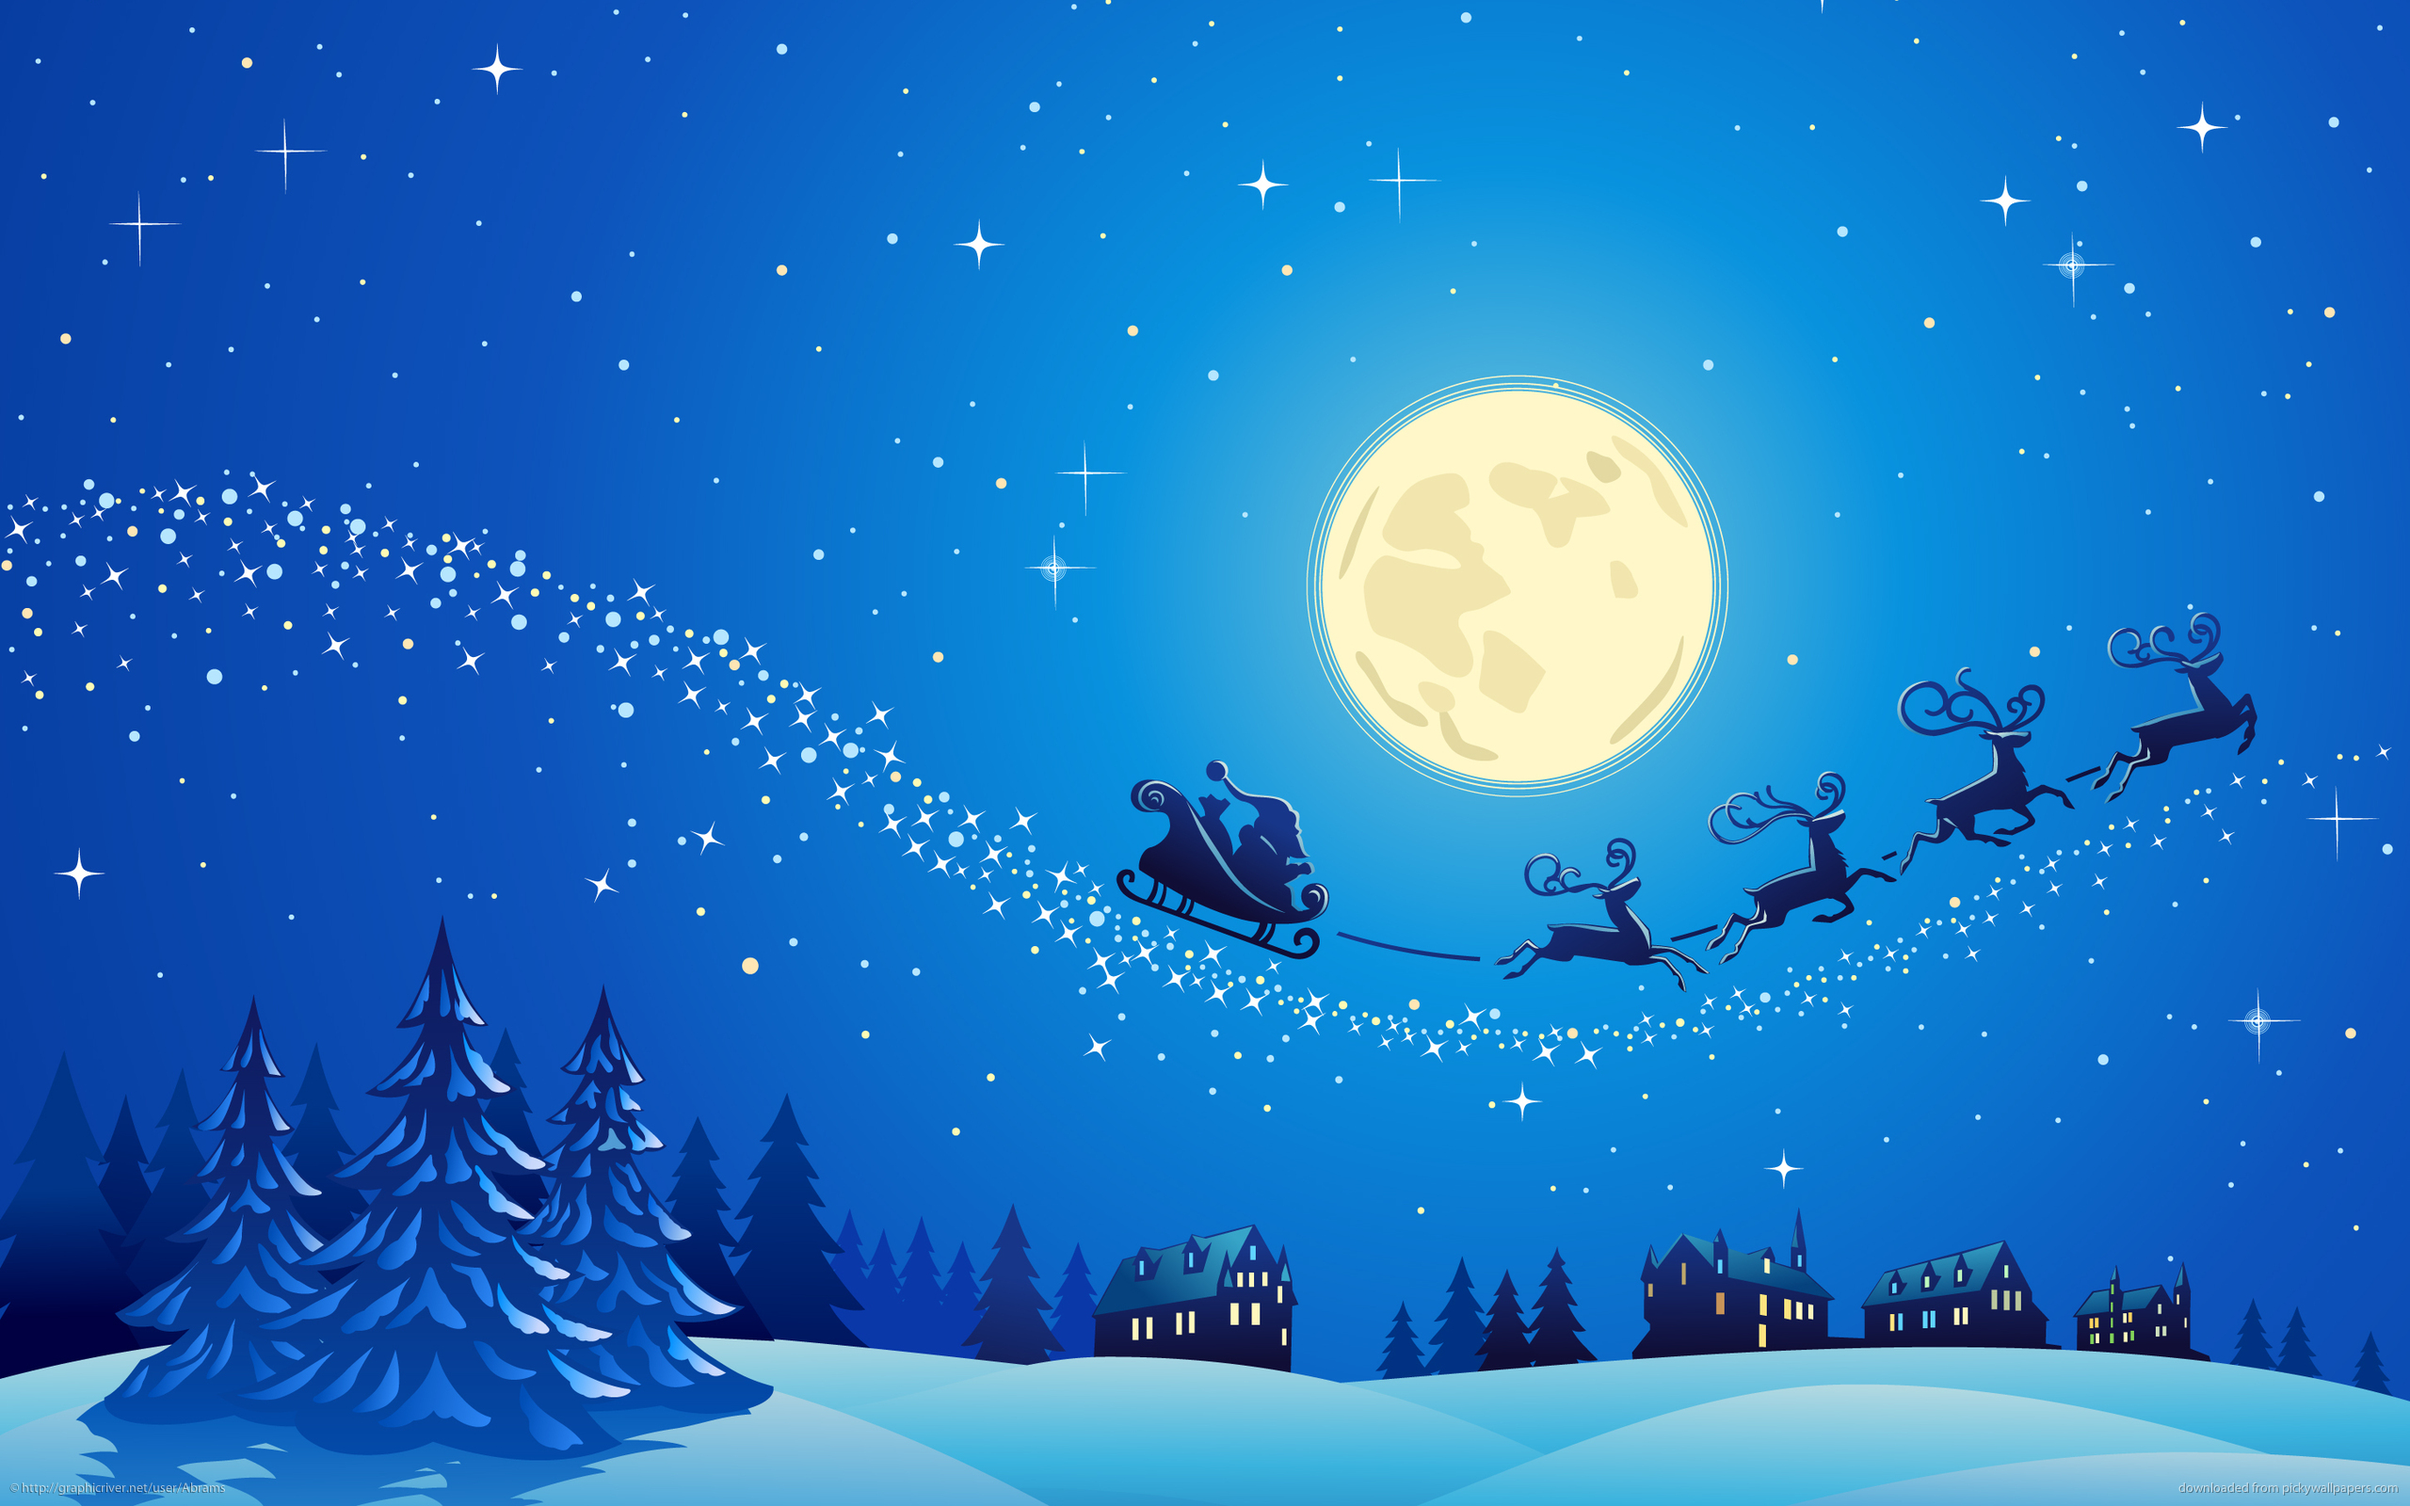
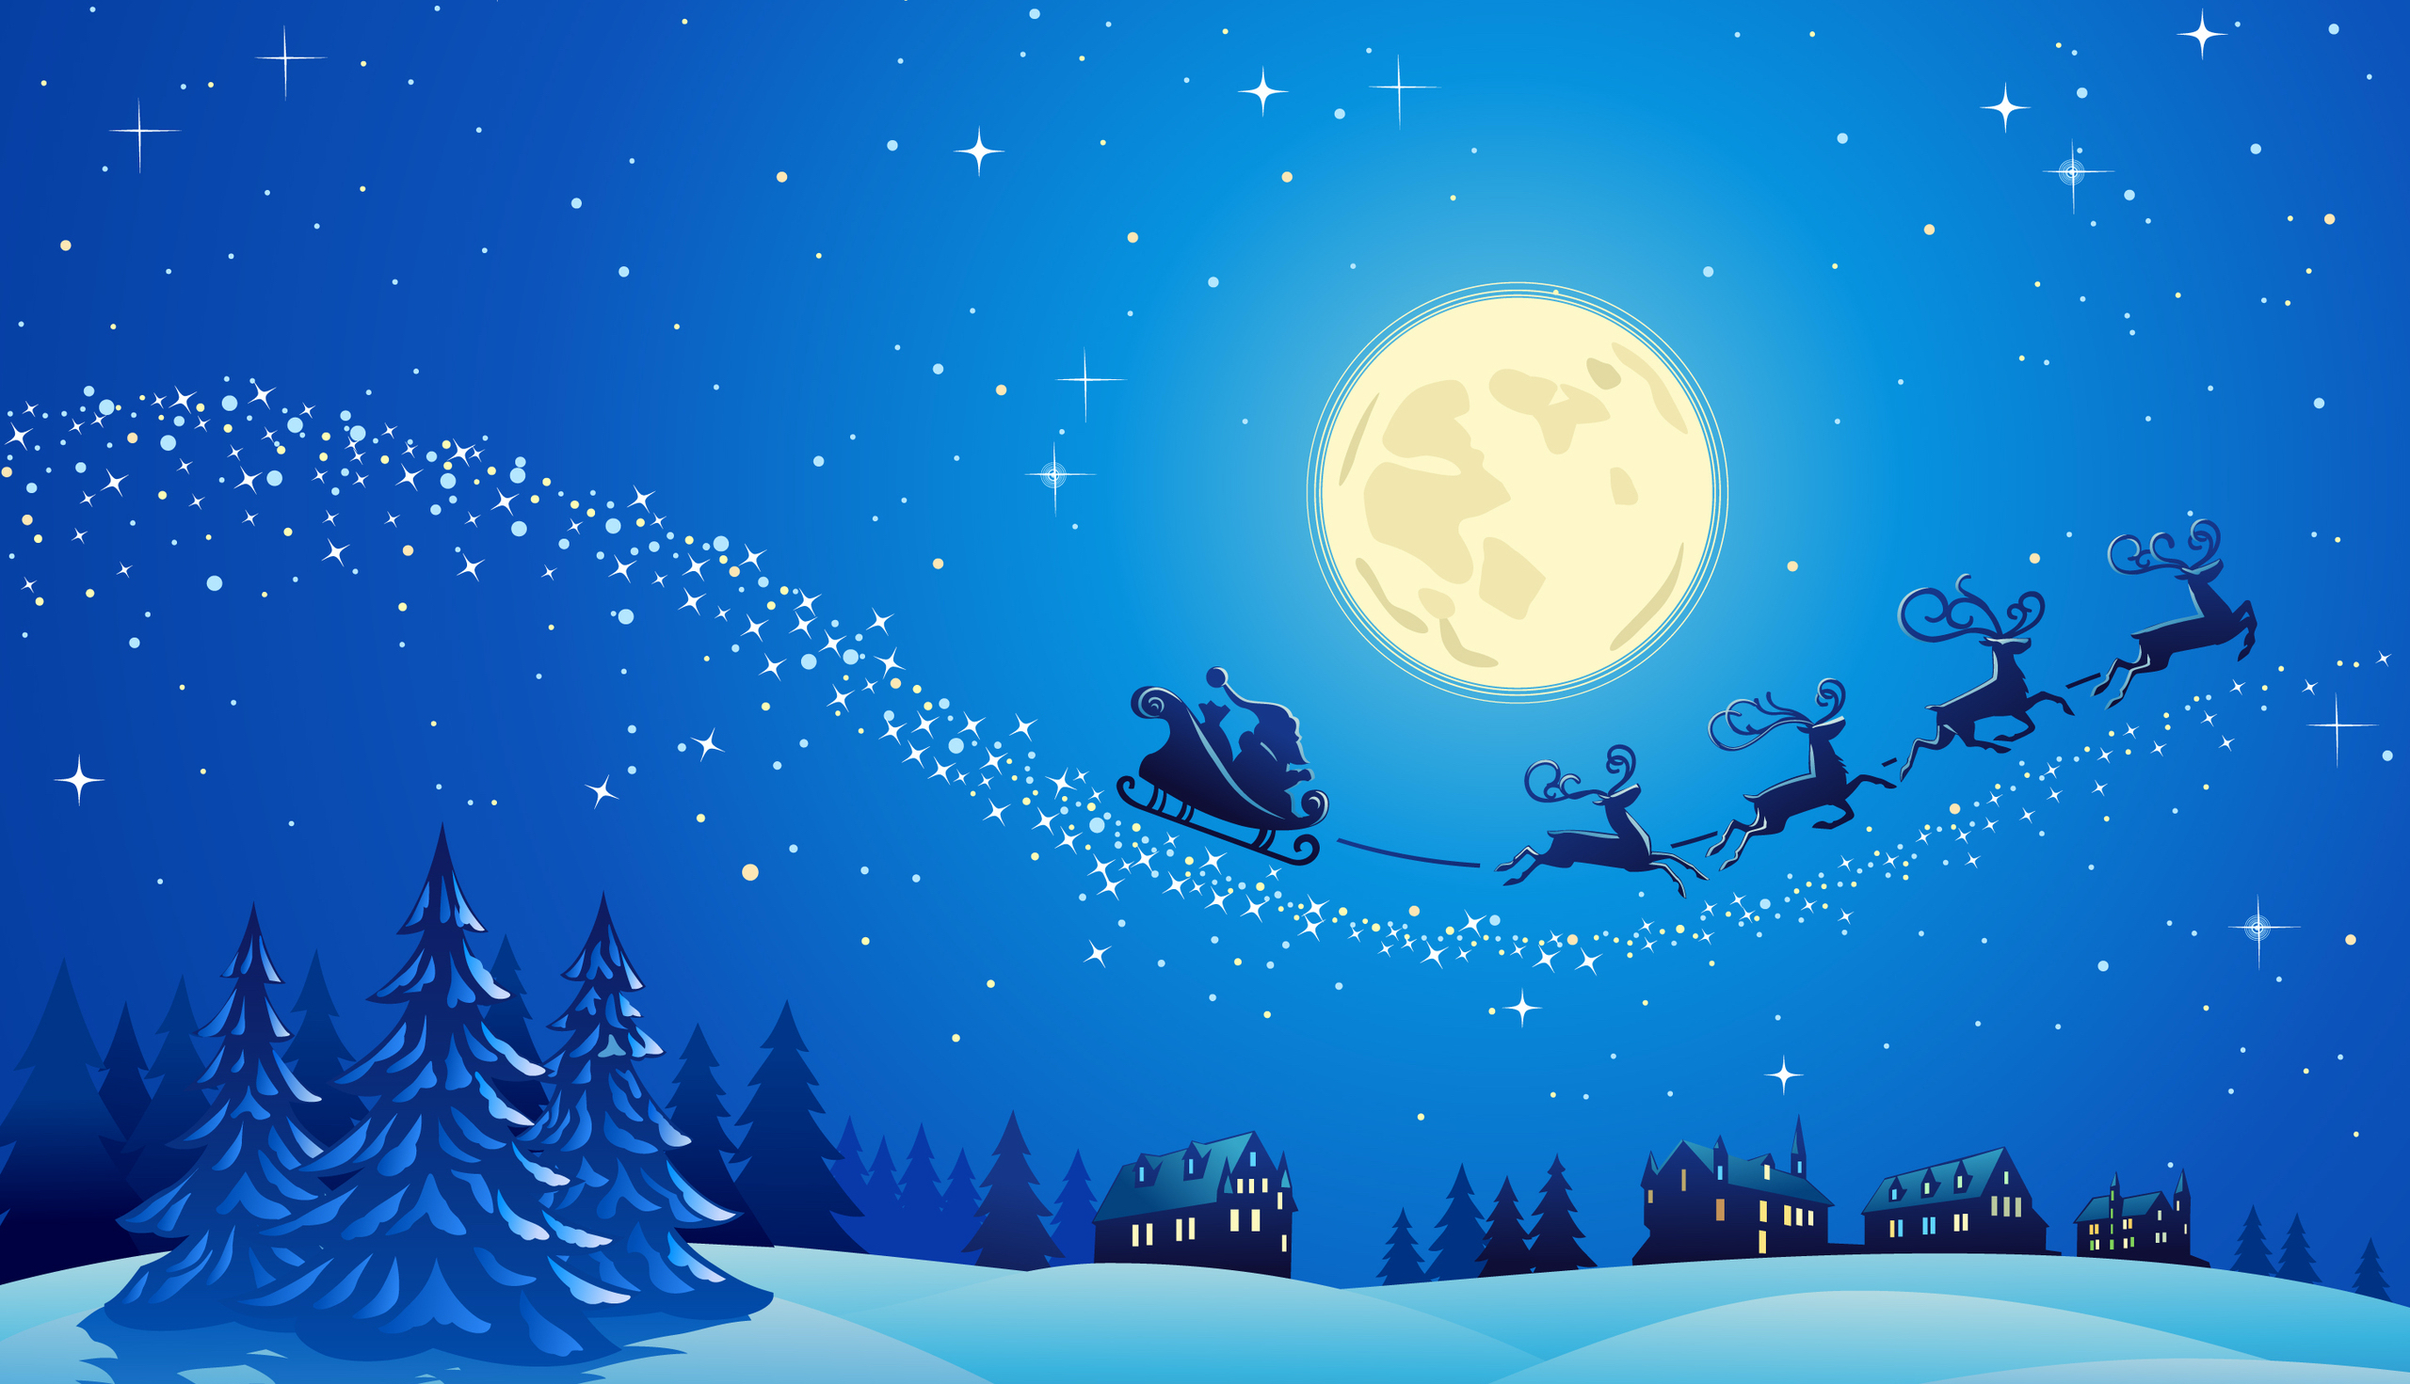
Updating/fixing css background image and positioning

diff --git a/index.html b/index.html
@@ -12,7 +12,11 @@
         body {
             background-image: url(images/background-1.jpg);
             background-repeat: no-repeat;
-            background-size: 1500px 900px;
+
+            background-position: inherit;
+            background-size: cover; 
+
+
             background-color: #7c7c7c;}
     </style>
 
